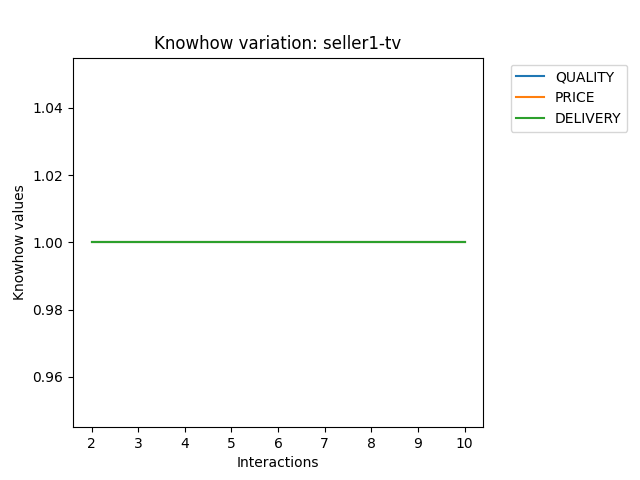
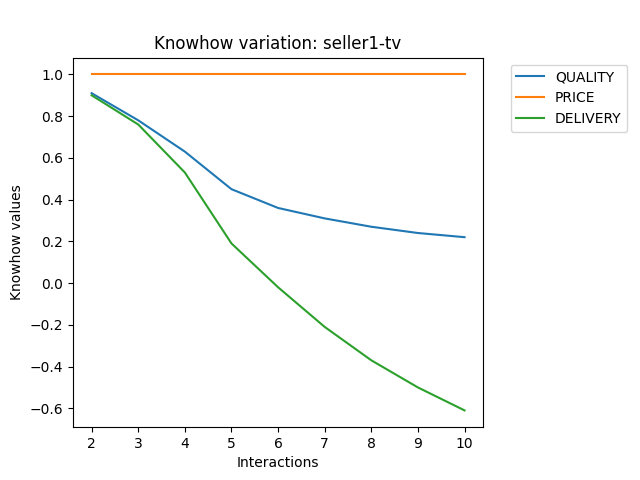
updating trust value with preferences of buyer

diff --git a/unload_boxes/src/java/scenario_Marketplace/actions/buyer/applyPreferences.java b/unload_boxes/src/java/scenario_Marketplace/actions/buyer/applyPreferences.java
@@ -1,0 +1,93 @@
+// Internal action code for project Trust_scenarios
+
+package scenario_Marketplace.actions.buyer;
+
+import jason.asSemantics.DefaultInternalAction;
+import jason.asSemantics.TransitionSystem;
+import jason.asSemantics.Unifier;
+import jason.asSyntax.ListTerm;
+import jason.asSyntax.ListTermImpl;
+import jason.asSyntax.Structure;
+import jason.asSyntax.Term;
+import scenario_Marketplace.entities.model.Buyer;
+import scenario_Marketplace.enums.CriteriaType;
+import scenario_Marketplace.environments.Market;
+import trustModel.repAndImg.enums.Mnemonic;
+import trustModel.repAndImg.model.Impression;
+import trustModel.repAndImg.services.ImpressionConverter;
+
+/**
+ * This class implements an action executed by an agent.
+ * Action: update the reputation, image, and knowhow believes based on the buyer's preferences.
+ */
+public class applyPreferences extends DefaultInternalAction 
+{
+	private static final long serialVersionUID = 1L;
+	
+	/**
+	 * Action's arguments (from args parameter):
+	 * args[0]: buyer name.
+	 * args[1]: buyers's image about a seller.
+	 * args[2]: buyers's reputation about a seller.
+	 * args[3]: buyers's knowhow about a seller.
+	 * args[4]: return the updated image, reputation and knowhow.
+	 */
+    @Override
+    public Object execute(TransitionSystem ts, Unifier un, Term[] args) throws Exception 
+    {
+    	Buyer buyer = Market.buyers.get(args[0].toString());
+    	
+    	ListTerm listImg = (ListTerm) args[1];
+    	ListTerm listRep = (ListTerm) args[2];
+    	ListTerm listRef = (ListTerm) args[3];
+    	
+    	if(!listImg.isEmpty())
+    	{
+    		Structure img = (Structure) listImg.get(0);
+    		Impression image = Impression.parserBeleif(img);
+    		updateValues(buyer, image);
+    		listImg = new ListTermImpl();
+    		listImg.add(ImpressionConverter.run(image, Mnemonic.IMAGE));
+    	}
+    	
+    	if(!listRep.isEmpty())
+    	{
+    		Structure rep = (Structure) listRep.get(0);
+    		Impression reputation = Impression.parserBeleif(rep);
+    		updateValues(buyer, reputation);
+    		listRep = new ListTermImpl();
+    		listRep.add(ImpressionConverter.run(reputation, Mnemonic.REPUTATION));
+    	}
+    	
+    	if(!listRef.isEmpty())
+    	{
+    		Structure ref = (Structure) listRef.get(0);
+    		Impression reference = Impression.parserBeleif(ref);
+    		updateValues(buyer, reference);
+    		listRef = new ListTermImpl();
+    		listRef.add(ImpressionConverter.run(reference, Mnemonic.KNOWHOW));
+    	}
+
+    	Structure tuples = new Structure("tuple");
+    	
+    	tuples.addTerm(listImg);
+    	tuples.addTerm(listRep);
+    	tuples.addTerm(listRef);
+    	
+        return un.unifies(tuples, args[4]);
+    }
+    
+    /**
+     * Change the value of a criterion according with the buyer's preferences.
+     * @param buyer: a buyer.
+     * @param imp: the impression that'll be its values changed.
+     */
+    private void updateValues(Buyer buyer, Impression imp)
+    {
+    	for (String criterion : imp.getCriteria())
+    	{
+    		double value = imp.getValue(criterion) * buyer.getPreference(CriteriaType.valueOf(criterion));
+    		imp.changeValue(criterion, value);    		
+    	}
+    }
+}

diff --git a/unload_boxes/src/java/scenario_Marketplace/actions/buyer/evaluateOffers.java b/unload_boxes/src/java/scenario_Marketplace/actions/buyer/evaluateOffers.java
@@ -91,14 +91,17 @@ public class evaluateOffers extends DefaultInternalAction
 			// Normalization and computation of the ratings (based on weighted average)
 			for(String sellerName : trustMap.keySet())
 			{
-				Double score = 0.0;
-				
-				score += (priceMap.get(sellerName) / minPrice.getValue()) * (buyer.getPreference(CriteriaType.PRICE));
-				score -= (qualityMap.get(sellerName) / maxQuality.getValue()) * (buyer.getPreference(CriteriaType.QUALITY));
-				score += (deliveryMap.get(sellerName) / minDelivery.getValue()) * (buyer.getPreference(CriteriaType.DELIVERY));
-				score /= 3;
-				
-				ratings.put(sellerName, score);
+				if(trustMap.get(sellerName) >= buyer.getMinTrustBound())
+				{
+					Double score = 0.0;
+					
+					score += (priceMap.get(sellerName) / minPrice.getValue()) * (buyer.getPreference(CriteriaType.PRICE));
+					score -= (qualityMap.get(sellerName) / maxQuality.getValue()) * (buyer.getPreference(CriteriaType.QUALITY));
+					score += (deliveryMap.get(sellerName) / minDelivery.getValue()) * (buyer.getPreference(CriteriaType.DELIVERY));
+					score /= 3;
+					
+					ratings.put(sellerName, score);
+				}
 			}
 			
 			// Getting best offer according with buyer preferences

diff --git a/unload_boxes/src/java/scenario_Marketplace/environments/MarketFuzzyConfig.java b/unload_boxes/src/java/scenario_Marketplace/environments/MarketFuzzyConfig.java
@@ -129,7 +129,7 @@ public class MarketFuzzyConfig
 		
 		sb.append("FUZZIFY " + varName).append("\n");
 		sb.append("\tTERM none := (" + min +", 1) (" + max +", 0);\n");
-		sb.append("\tTERM has := (" + (max/2) + ", 0) (" + max + ", 1);\n");
+		sb.append("\tTERM has := (" + min + ", 0) (" + max + ", 1);\n");
 		sb.append("END_FUZZIFY\n\n");
 		
 		return sb.toString();

diff --git a/unload_boxes/src/java/scenario_Marketplace/environments/Market.java b/unload_boxes/src/java/scenario_Marketplace/environments/Market.java
@@ -41,7 +41,7 @@ public class Market extends Environment
 		MarketFuzzyConfig.createFuzzyFile(getMyImpressionsITM(), getThirdPartITM());
     	fis = Files.loadFuzzyBlocks();
     	
-    	showFuzzyUniverse();
+//    	showFuzzyUniverse();
     	
 		
 		System.out.println("\n--------------------- STARTING JASON APPLICATION --------------------\n");
